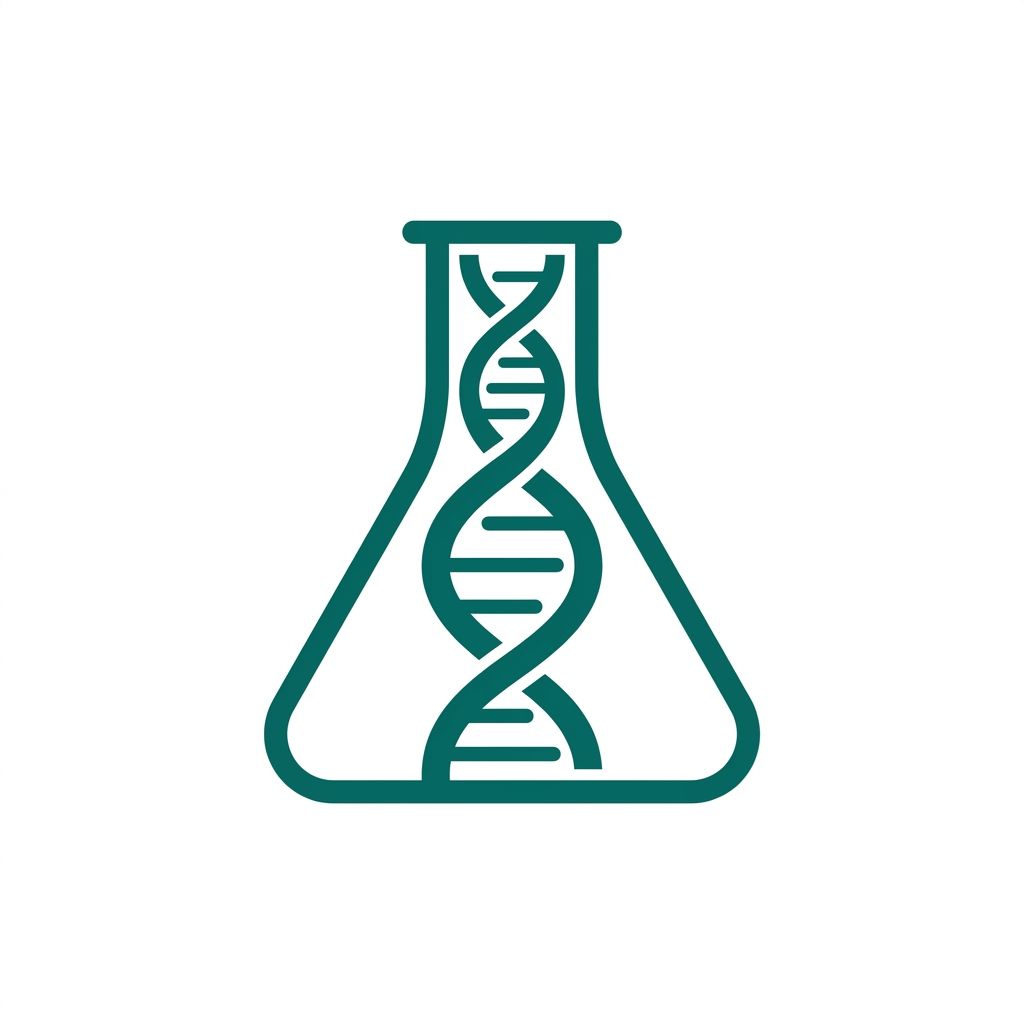
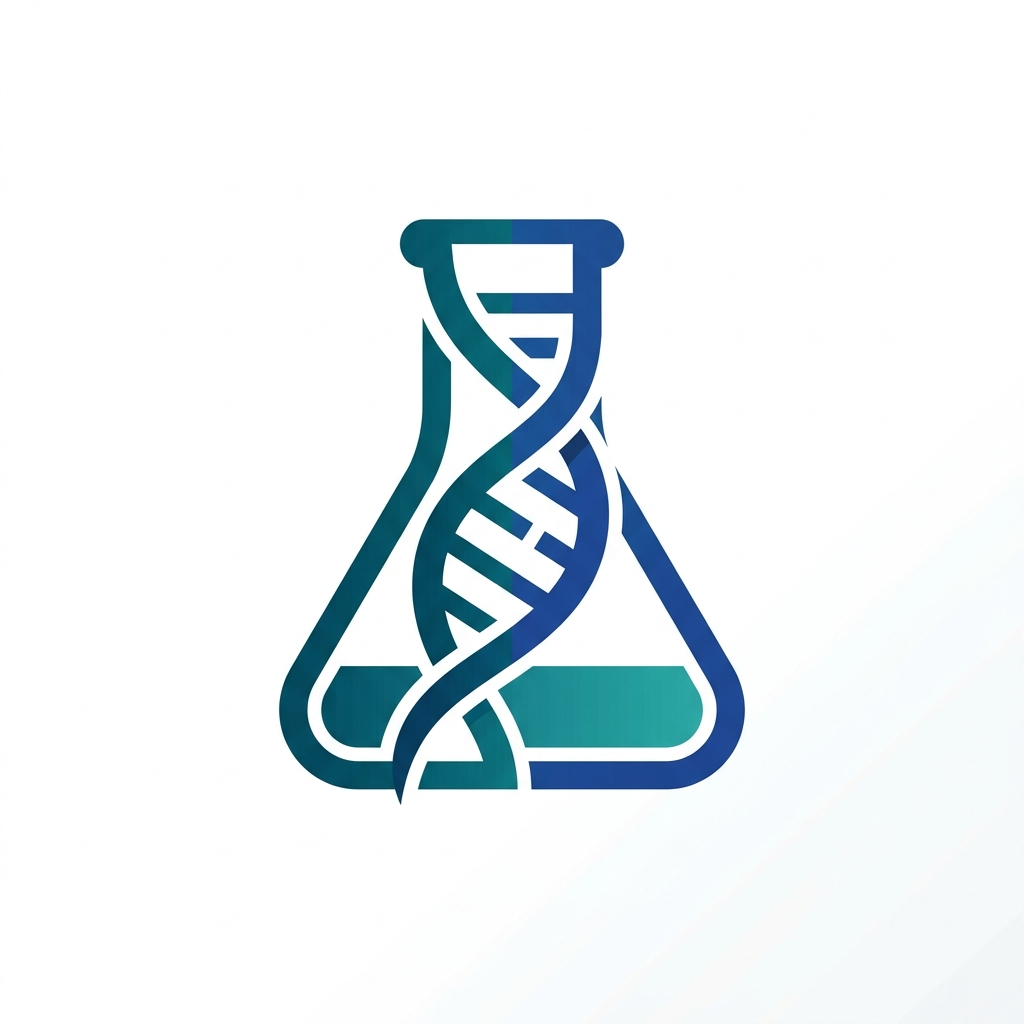
updates

Changed region(s): [[0.25, 0.1875, 0.75, 0.8125]]

diff --git a/src/app/layout.tsx b/src/app/layout.tsx
@@ -71,8 +71,8 @@ export const metadata: Metadata = {
     images: ["/og-image.png"],
   },
   icons: {
-    icon: "/clients/logo.png",
-    apple: "/clients/logo.png",
+    icon: "/clients/logo-icon.png",
+    apple: "/clients/logo-icon.png",
   },
 };
 
@@ -126,9 +126,9 @@ export default function RootLayout({
           dangerouslySetInnerHTML={{ __html: JSON.stringify(jsonLd) }}
         />
         {/* Favicon override */}
-        <link rel="icon" type="image/png" href="/clients/logo.png" />
-        <link rel="shortcut icon" type="image/png" href="/clients/logo.png" />
-        <link rel="apple-touch-icon" href="/clients/logo.png" />
+        <link rel="icon" type="image/png" href="/clients/logo-icon.png" />
+        <link rel="shortcut icon" type="image/png" href="/clients/logo-icon.png" />
+        <link rel="apple-touch-icon" href="/clients/logo-icon.png" />
       </head>
       <body className="antialiased min-h-screen bg-[#FFFDF9] text-[#1c0e35]">
         {children}

diff --git a/src/app/page.tsx b/src/app/page.tsx
@@ -107,7 +107,9 @@ function ProjectCard({ project, index }: { project: (typeof projects)[0]; index:
   } else if (project.logo.toLowerCase().includes('logo-removebg')) {
     scaleClass = "scale-[0.75]";
   } else if (project.logo.toLowerCase().includes('branday')) {
-    scaleClass = "scale-[0.78]";
+    scaleClass = "scale-[0.62]";
+  } else if (project.logo.toLowerCase().includes('srflames')) {
+    scaleClass = "scale-[0.95] -translate-y-2";
   } else if (project.logo.toLowerCase().includes('atom')) {
     scaleClass = "scale-[0.78]";
   } else if (project.logo.toLowerCase().includes('sunbird')) {

diff --git a/src/data/projects.ts b/src/data/projects.ts
@@ -136,7 +136,7 @@ export const projects: Project[] = [
     name: 'Capture Survey',
     logo: '/clients/capture-survey.png',
     category: 'static',
-    description: 'Landscaping and land survey company site for Capture Survey — project portfolio, service areas, and client contact flow.',
+    description: 'Professional website for Capture Survey, showcasing Dual-Frequency DGPS receivers and advanced digital surveying technology for mapping contours, layouts, and land contours.',
     url: 'https://www.capturesurvey.in',
     featured: true,
   },